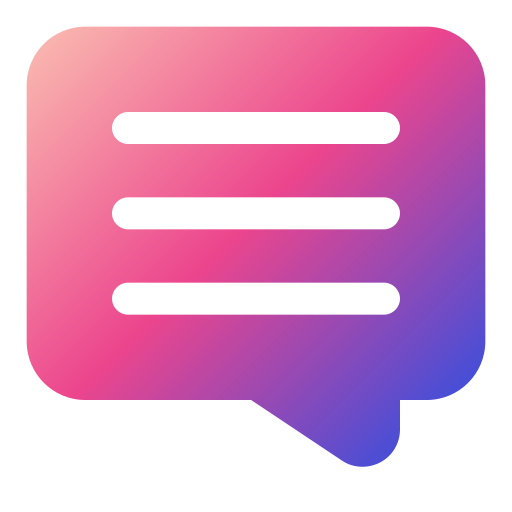
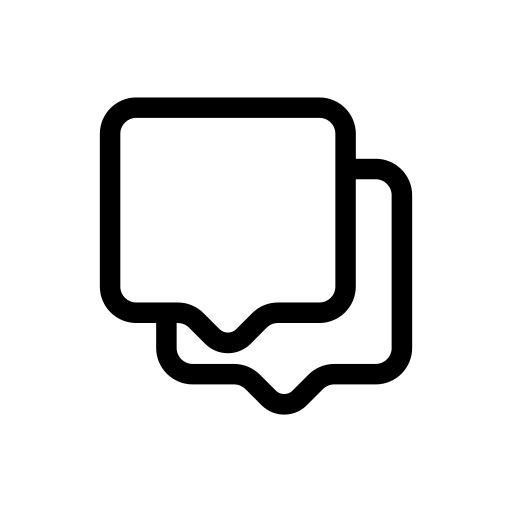
Feat: create comment api

diff --git a/advancedweb/src/services/userService.ts b/advancedweb/src/services/userService.ts
@@ -16,6 +16,16 @@ interface Album {
   images: string[];
 }
 
+interface Comment {
+  comment_id: string;
+  content: string;
+  writer_id: string;
+  created_at: string;
+  image_id: string;
+  parent_id?: string;
+  replies?: Comment[];
+}
+
 export const userService = {
   getUserProfile: (userId: string): Promise<ApiResponse<UserProfile>> => apiRequest<UserProfile>(`user/${userId}`),
 
@@ -60,4 +70,26 @@ export const userService = {
       method: "DELETE",
     }),
   getMyMap: (): Promise<ApiResponse<Album[]>> => apiRequest<Album[]>(`mymap`),
+
+  addComment: (
+    writer_id: string,
+    content: string,
+    image_id: string,
+    parent_id?: string
+  ): Promise<ApiResponse<Comment>> =>
+    apiRequest<Comment>(`add_comment`, {
+      method: "POST",
+      body: {
+        writer_id,
+        content,
+        image_id,
+        parent_id: parent_id ? parent_id : null,
+      },
+    }),
+  getComments: (image_id: string): Promise<ApiResponse<Comment[]>> => apiRequest<Comment[]>(`get_comments${image_id}`),
+
+  deleteComment: (comment_id: string): Promise<ApiResponse<void>> =>
+    apiRequest<void>(`delete_comment/${comment_id}`, {
+      method: "DELETE",
+    }),
 };

diff --git a/advancedweb/src/app/api/get_comment/route.ts b/advancedweb/src/app/api/get_comment/route.ts
@@ -1,0 +1,29 @@
+import { prisma } from "@/libs/prisma";
+import { NextResponse } from "next/server";
+
+export async function GET(req: Request) {
+  const { searchParams } = new URL(req.url);
+  const image_id = searchParams.get("image_id");
+
+  if (!image_id) {
+    return NextResponse.json({ message: "No image_id provided" }, { status: 400 });
+  }
+  try {
+    const comments = await prisma.comment.findMany({
+      where: { image_id },
+      include: {
+        writer: true,
+      },
+      orderBy: {
+        created_at: "asc",
+      },
+    });
+    return NextResponse.json(
+      { data: comments, message: "Comments fetched successfully", success: true },
+      { status: 200 }
+    );
+  } catch (error) {
+    console.error("Failed to get comments: ", error);
+    return NextResponse.json({ message: "Failed to get comments", success: false }, { status: 500 });
+  }
+}

diff --git a/advancedweb/src/app/api/add_comment/route.ts b/advancedweb/src/app/api/add_comment/route.ts
@@ -1,0 +1,28 @@
+import { prisma } from "@/libs/prisma";
+import { NextResponse } from "next/server";
+
+export async function POST(req: Request) {
+  const body = await req.json();
+  const { writer_id, content, image_id, parent_id } = body;
+  if (!content || !writer_id || !image_id) {
+    return NextResponse.json({ message: "No data received" }, { status: 400 });
+  }
+
+  try {
+    const newComment = await prisma.comment.create({
+      data: {
+        content,
+        writer_id,
+        image_id,
+        parent_id: parent_id ?? null,
+      },
+      include: {
+        writer: true,
+      },
+    });
+    return NextResponse.json({ data: newComment, message: "Comment created", success: true }, { status: 201 });
+  } catch (error) {
+    console.error("Failed to create comment: ", error);
+    return NextResponse.json({ message: "Failed to create comment", success: false }, { status: 500 });
+  }
+}

diff --git a/advancedweb/src/component/commentInput.tsx b/advancedweb/src/component/commentInput.tsx
@@ -1,0 +1,25 @@
+import { useState } from "react";
+import styles from "./commentInput.module.css";
+export default function CommentInput({ onSubmit }: { onSubmit?: (comment: string) => void }) {
+  const [comment, setComment] = useState("");
+
+  const handleSubmit = (e: React.FormEvent) => {
+    e.preventDefault();
+    if (comment.trim()) {
+      onSubmit?.(comment);
+      setComment("");
+    }
+  };
+  return (
+    <form className={styles.commentInputWrapper} onSubmit={handleSubmit}>
+      <input
+        type="text"
+        placeholder="Write a comment..."
+        className={styles.commentInput}
+        onChange={(e) => setComment(e.target.value)}
+        value={comment}
+      />
+      <button type="submit">Submit</button>
+    </form>
+  );
+}

diff --git a/advancedweb/src/app/api/delete_comment/route.ts b/advancedweb/src/app/api/delete_comment/route.ts
@@ -1,0 +1,21 @@
+import { prisma } from "@/libs/prisma";
+import { NextResponse } from "next/server";
+
+export async function DELETE(req: Request) {
+  const { searchParams } = new URL(req.url);
+  const comment_id = searchParams.get("comment_id");
+
+  if (!comment_id) {
+    return NextResponse.json({ message: "No comment_id provided" }, { status: 400 });
+  }
+
+  try {
+    await prisma.comment.delete({
+      where: { comment_id },
+    });
+    return NextResponse.json({ message: "Comment deleted", success: true }, { status: 200 });
+  } catch (error) {
+    console.error("Failed to delete comment: ", error);
+    return NextResponse.json({ message: "Failed to delete comment", success: false }, { status: 500 });
+  }
+}

diff --git a/advancedweb/src/component/gallery.tsx b/advancedweb/src/component/gallery.tsx
@@ -9,6 +9,7 @@ import { useState } from "react";
 import Comment from "./comment";
 import styles from "./gallery.module.css";
 import "../styles/filter.css";
+import CommentInput from "./commentInput";
 export interface CommentType {
   writer_name: string;
   date: string;
@@ -40,12 +41,14 @@ const Gallery: React.FC<GalleryProps> = ({ imagePaths }) => {
         <div style={{ display: "relative" }} />
         <Image
           src={item.original}
+          className={item.filter ? item.filter : ""}
           alt=""
           fill
           style={{
             objectFit: "contain",
           }}
         />
+        {isCommentOpen && <CommentInput onSubmit={(value) => {}} />}
         {isCommentOpen && item.comments?.length && (
           <div className={styles.commentWrapper}>
             {item.comments.map((comment: CommentType) => (
@@ -59,16 +62,9 @@ const Gallery: React.FC<GalleryProps> = ({ imagePaths }) => {
             ))}
           </div>
         )}
-
-        <Image
-          className={item.filter ? item.filter : ""}
-          style={{ position: "absolute", top: "60px", right: "30px", cursor: "pointer" }}
-          src={commentIcon}
-          alt="comment"
-          width={20}
-          height={20}
-          onClick={() => setIsCommentOpen((prev) => !prev)}
-        />
+        <div className={styles.commentIconWrapper}>
+          <Image src={commentIcon} alt="comment" fill onClick={() => setIsCommentOpen((prev) => !prev)} />
+        </div>
       </div>
     );
   };

diff --git a/advancedweb/src/component/commentInput.module.css b/advancedweb/src/component/commentInput.module.css
@@ -1,0 +1,14 @@
+.commentInputWrapper {
+  display: flex;
+  flex-direction: column;
+  align-items: center;
+  justify-content: center;
+  padding: 8px;
+  border-radius: 20%;
+  background-color: white;
+}
+
+.commentInput {
+  border: none;
+  outline: none;
+}

diff --git a/advancedweb/src/component/gallery.module.css b/advancedweb/src/component/gallery.module.css
@@ -1,4 +1,6 @@
 /* globals.css */
+@import "../styles/color.css";
+
 .image-gallery {
   display: flex;
   flex-direction: column;
@@ -17,4 +19,14 @@
   display: flex;
   justify-content: center;
   align-items: center;
+}
+
+.commentIconWrapper {
+  width: 7vh;
+  height: 7vh;
+  background-color: var(--color-04);
+  cursor: pointer;
+  border-radius: 20%;
+  position: absolute;
+  right: 0;
 }